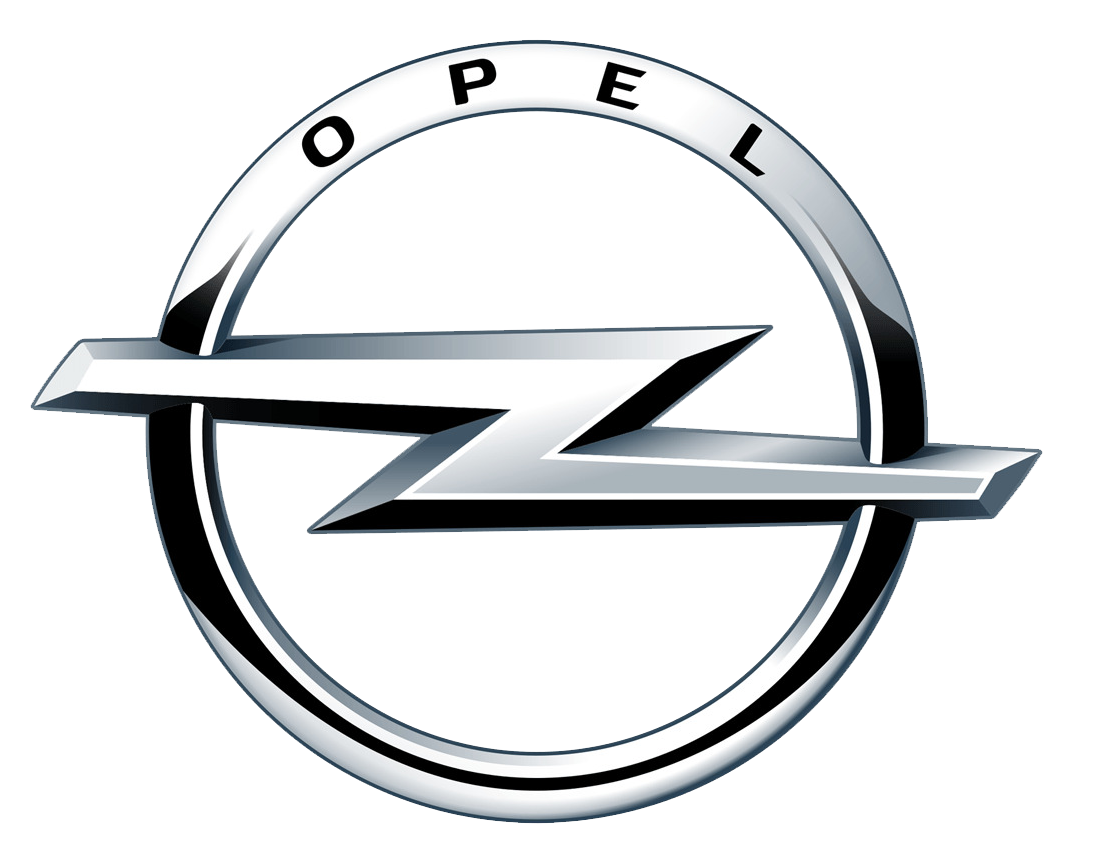
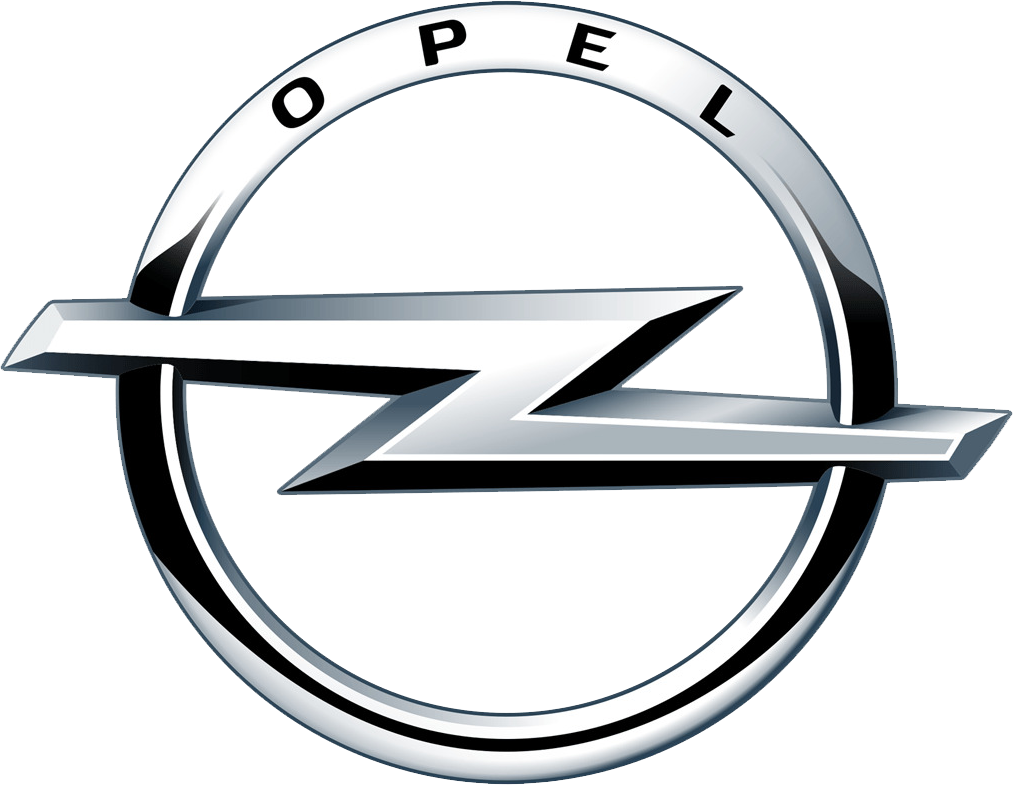
new secs updated

Changed region(s): [[0.0, 0.0, 1.0, 1.0]]

diff --git a/src/pages/Tedarikciler/Tedarikciler.jsx b/src/pages/Tedarikciler/Tedarikciler.jsx
@@ -11,7 +11,7 @@ function Tedarikciler() {
     <section className="AnaMarkalar">
       <div className="mainLogos">
         <img src="/assets/peugeot2.png" alt="logo" />
-        <img src="/assets/opel2.png" alt="logo" />
+        <img style={{ width: "12%" }} src="/assets/opel2.png" alt="logo" />
         <img src="/assets/citroen2.png" alt="logo" />
         <img src="/assets/renault2.png" alt="logo" />
       </div>

diff --git a/src/pages/Tedarikciler/Tedarikciler.scss b/src/pages/Tedarikciler/Tedarikciler.scss
@@ -15,6 +15,7 @@
     flex-wrap: wrap;
     justify-content: center;
     align-items: center;
+    gap: 2rem;
     img {
       width: 10%;
     }
